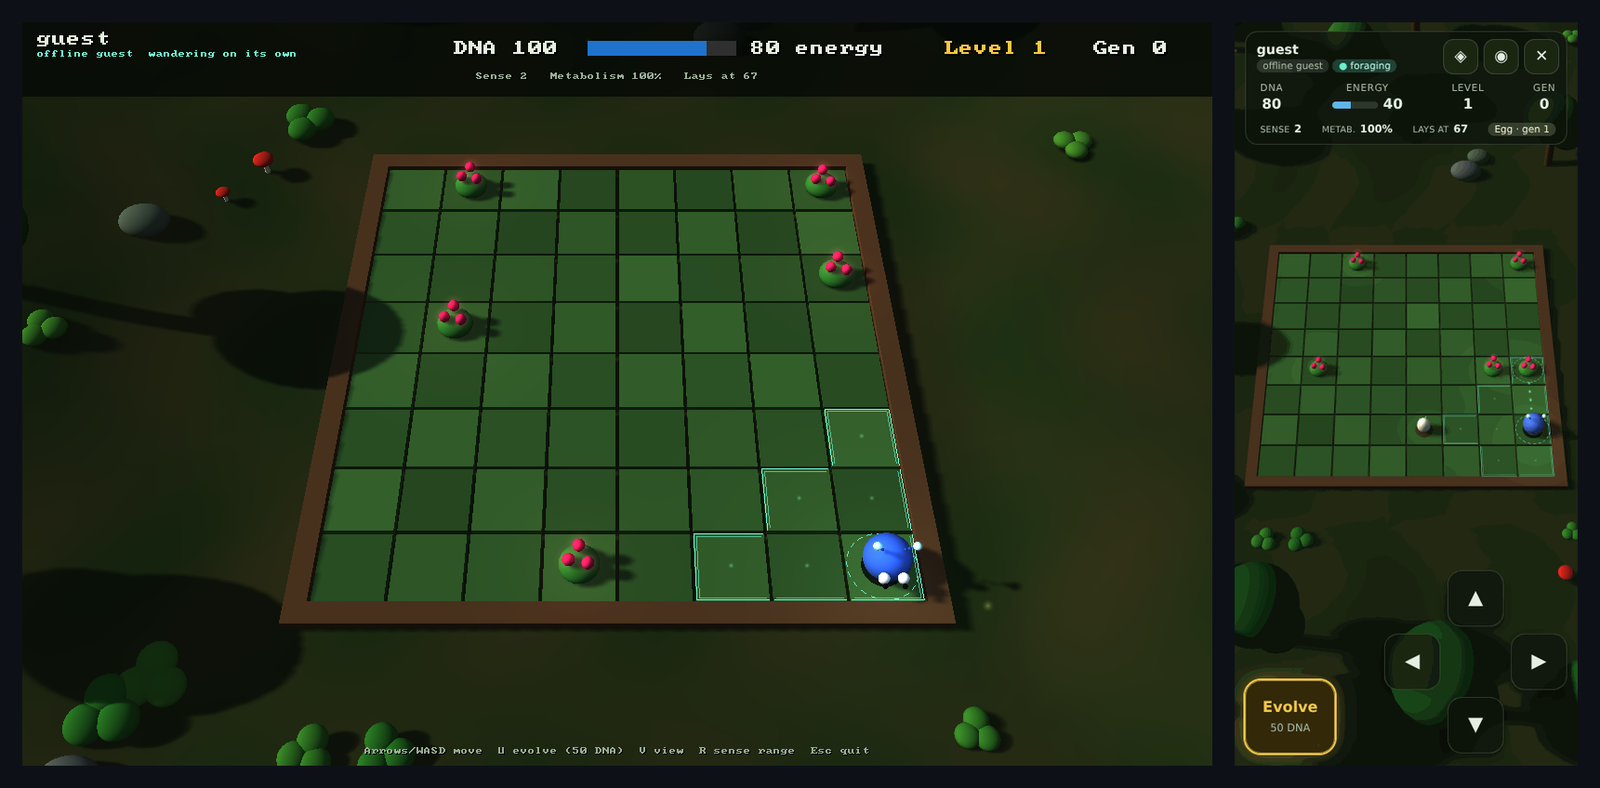
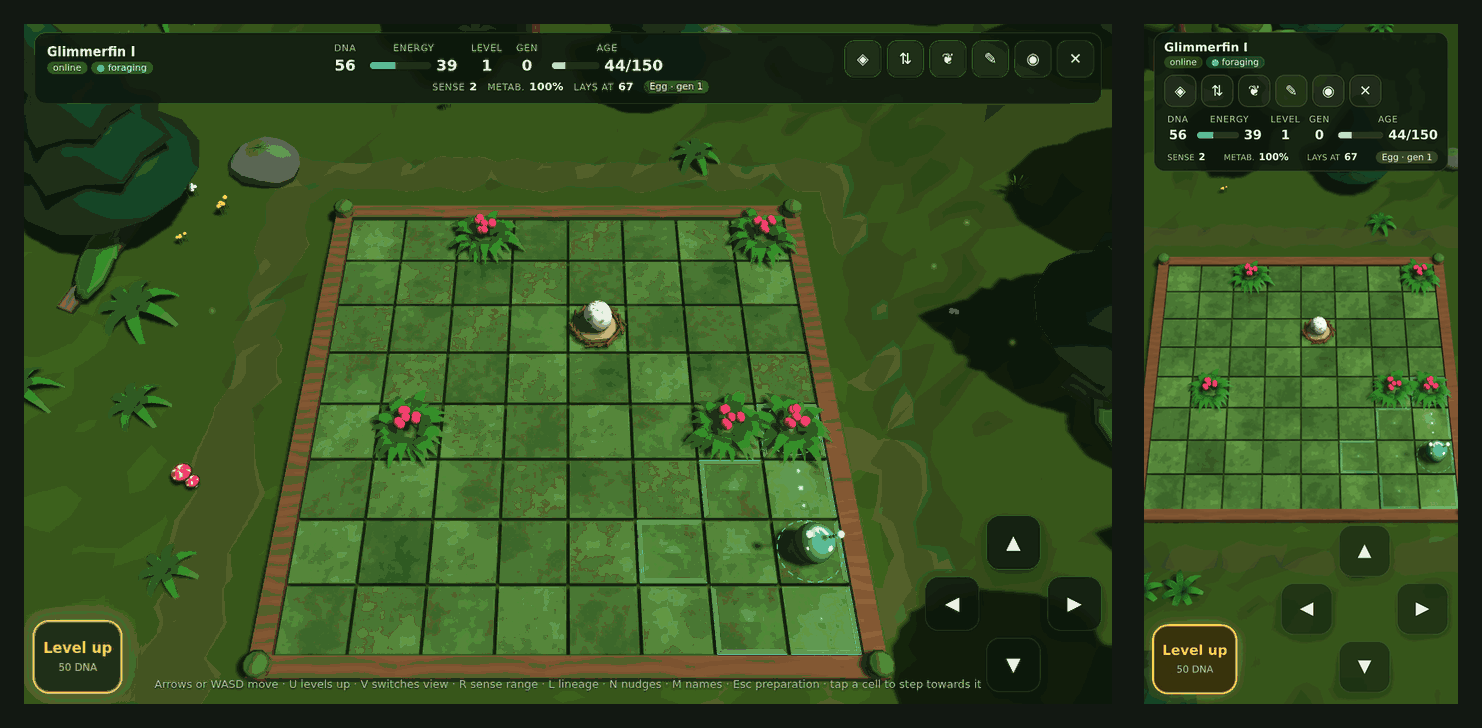
profile: refresh the captures and say the demo is live (#1)
The hero GIF, the foraging GIF and the egg still are the client's new
darkroom captures (named creatures, the art pass, the retuned economy),
and the desktop-and-phone image is now the browser build at both sizes,
with the Level up button the old capture called Evolve. The demo is live,
so "Launching soon" becomes a link, and the community site is linked.

Claude-Session: https://claude.ai/code/session_01LYNeukuGyyDnTMnLkLcQ2d

diff --git a/profile/README.md b/profile/README.md
@@ -1,5 +1,5 @@
 <p align="center">
-  <img src="https://raw.githubusercontent.com/Primordial-Rise/.github/main/profile/images/hero-respawn.gif" width="720" alt="A small blue creature lies starved on a mossy forest board while a countdown runs out, then hatches from the egg it laid as the next generation">
+  <img src="https://raw.githubusercontent.com/Primordial-Rise/.github/main/profile/images/hero-respawn.gif" width="720" alt="A small creature named Glimmerfin I wanders a mossy forest board on its last energy, starves while a countdown runs out, then hatches from the egg it laid as Glimmerfin II">
 </p>
 
 <p align="center"><em>A creature starves, waits out its countdown and hatches from its own egg as the next generation. Captured from the game.</em></p>
@@ -11,7 +11,7 @@
 ## What it is
 
 Primordial Rise is an evolution game. A small creature forages a forest board, eats berries
-for DNA, evolves, lays an egg carrying slightly mutated genes, and one day dies. Its egg
+for DNA, levels up, lays an egg carrying slightly mutated genes, and one day dies. Its egg
 hatches as the next generation. You can steer it, or step away and let it fend for itself.
 Over many generations the lineage changes, and those changes are what keep it alive.
 
@@ -33,7 +33,7 @@ with every egg.
 ### Eggs and generations
 
 <p align="center">
-  <img src="https://raw.githubusercontent.com/Primordial-Rise/.github/main/profile/images/egg-and-respawn.png" width="800" alt="The game's forest board: a grey, starved creature in the lower right with a 'respawns in 3' badge, and a speckled egg waiting further up the board">
+  <img src="https://raw.githubusercontent.com/Primordial-Rise/.github/main/profile/images/egg-and-respawn.png" width="800" alt="The game's forest board: a grey, starved creature in the upper right corner with a 'respawns in 3' badge, and a speckled egg in a nest near the middle of the board">
 </p>
 <p align="center"><em>Death is not the end of a run: the creature waits out a short countdown and the lineage carries on from its egg.</em></p>
 
@@ -44,7 +44,7 @@ climbing, and so does the story of your line.
 ### A creature that forages on its own
 
 <p align="center">
-  <img src="https://raw.githubusercontent.com/Primordial-Rise/.github/main/profile/images/foraging.gif" width="720" alt="A blue creature hops across the forest board on its own; a glowing outline shows the cells it can sense and a dotted trail leads it to a berry bush">
+  <img src="https://raw.githubusercontent.com/Primordial-Rise/.github/main/profile/images/foraging.gif" width="720" alt="A creature hops across the forest board on its own, eating berries; a glowing outline shows the cells it can sense and a dotted trail leads it to the next berry bush">
 </p>
 <p align="center"><em>Left alone, the creature looks for food within its sense range and walks to the best bush it can find.</em></p>
 
@@ -54,9 +54,9 @@ walk and goes after them. Come back later to see how it fared while you were awa
 ### On your desk and in your pocket
 
 <p align="center">
-  <img src="https://raw.githubusercontent.com/Primordial-Rise/.github/main/profile/images/desktop-and-phone.png" width="800" alt="The game on a Windows desktop beside the same game in a phone browser, with an on-screen direction pad and an Evolve button">
+  <img src="https://raw.githubusercontent.com/Primordial-Rise/.github/main/profile/images/desktop-and-phone.png" width="800" alt="The browser build at desktop size beside the same moment at phone size: the creature Glimmerfin I foraging on the forest board, with an on-screen direction pad and a Level up button">
 </p>
-<p align="center"><em>The desktop build on Windows, and the browser build on a phone.</em></p>
+<p align="center"><em>The browser build at desktop size and on a phone.</em></p>
 
 The desktop builds run natively on Windows and Linux. The browser build fits a phone
 screen, with touch controls.
@@ -73,8 +73,12 @@ that casts real shadows.
 
 ## Play the demo
 
-**Launching soon:** a free browser demo will be at
+A free browser demo is live at
 [primordial-rise.play.danielstephenson.dev](https://primordial-rise.play.danielstephenson.dev/).
+Make an account, name your species, and come back later to see how your lineage fared.
+
+Players can share their creatures and compare them on the community site,
+[primordial-rise-community.play.danielstephenson.dev](https://primordial-rise-community.play.danielstephenson.dev/).
 
 ## What's next
 
